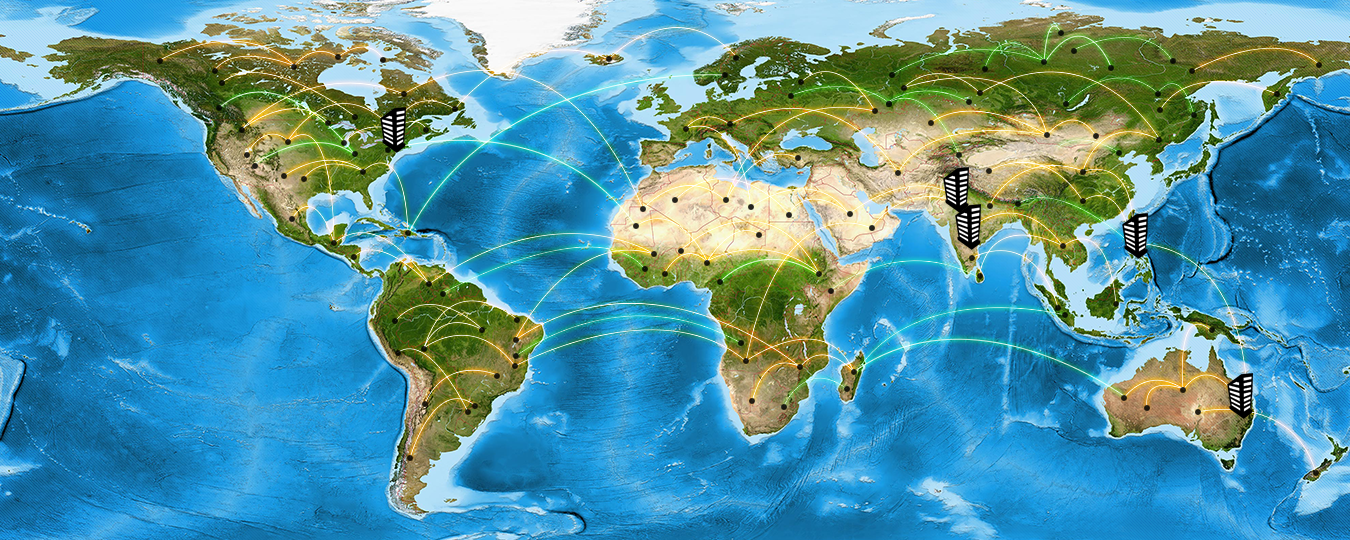
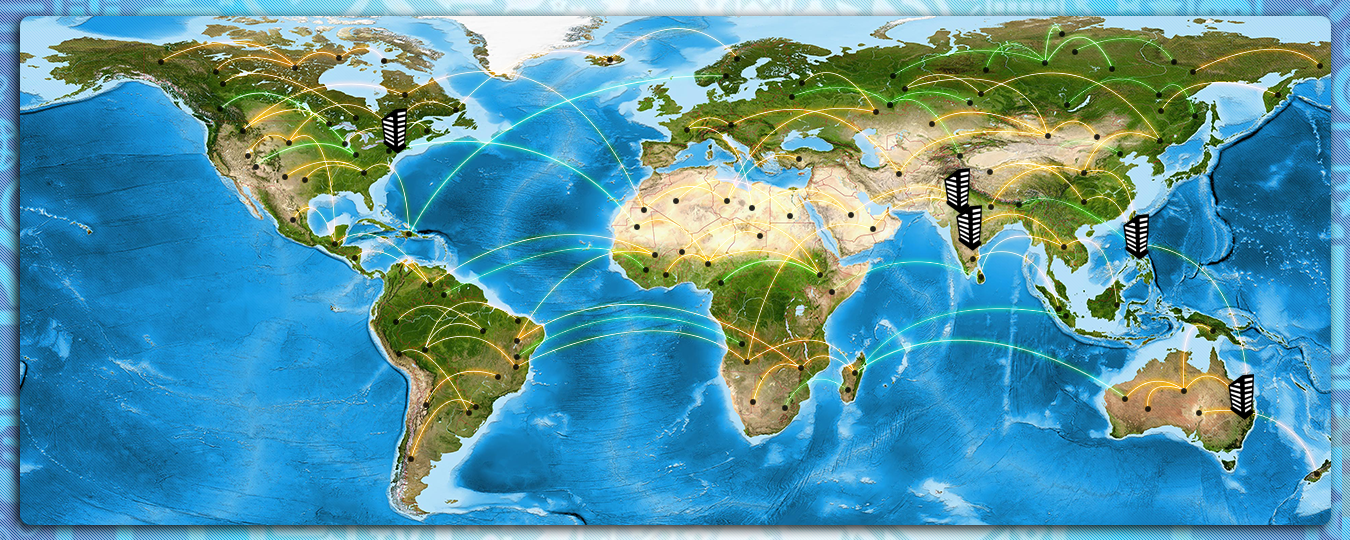
Modified homepage

diff --git a/include/assets/css/style.css b/include/assets/css/style.css
@@ -642,7 +642,7 @@ a:focus {
   margin-right: 15px !important; }
 
 .m-r-25 {
-    margin-right: 15px !important; }
+    margin-right: 25px !important; }
 
 .m-l-5 {
   margin-left: 5px !important; }
@@ -5785,3 +5785,14 @@ ul.sitemap-icon ul li a {
 
   .bg-darkgrey {
     background-color: #262626; }
+
+  @media screen and (max-width: 600px) {
+    .header-slogan {
+      visibility: hidden;
+      clear: both;
+      float: left;
+      margin: 10px auto 5px 20px;
+      width: 28%;
+      display: none;
+    }
+  }

diff --git a/include/navVisitor.php b/include/navVisitor.php
@@ -1,11 +1,16 @@
-<div class="container " >
+<img style="position: absolute; top:0; left:0;" src="../include/assets/images/teamire-header-image.png">
+<div class="container">
   <div class="row">
-    <a href="index.php" class="logo m-t-5  m-l-15 pull-left">
-      <img src="../include/assets/images/teamire-logo.png" style="width: 237px; height: 80px;">
-    </a>
-    <div style="height: 55px; width: 1px; background-color: #9aebff;" class="pull-left m-t-15 m-l-5"></div>
+
+      <a href="index.php" class="logo m-t-5 pull-left">
+        <img src="../include/assets/images/teamire-logo.png" style="width: 237px; height: 80px;">
+      </a>
+
+    <div style="height: 55px; width: 1px; background-color: #9aebff;" class="header-slogan pull-left m-t-15 m-l-5"></div>
     <div class="pull-left" style="width: 265px;height: 40px;">
-      <p class="text-lightblue m-l-15 m-t-20 font-13"><b>It is our business to identify your needs, interests and concerns</b></p>
+      <p class="text-lightblue m-l-15 m-t-20 font-13 header-slogan">
+        <b>It is our business to identify your needs, interests and concerns</b>
+      </p>
     </div>
 
     <div class="form-inline pull-right"  style="padding: 30px;" id="myTopnav">
@@ -15,13 +20,12 @@
         <li> <a class="m-l-3 m-r-3" href="../home/?view=downloads" style="font-size:15px;">Downloads</a></li>
         <li> <a class="m-l-3 m-r-3" href="../home/?view=hiringForm" style="font-size:15px;">Request Staff</a></li>
         <li><a class="m-l-3 m-r-3" href="../home/?view=contactUs" style="font-size:15px;">Contact Us</a></li>
-
       </ul>
     </div>
 
-</div>
   </div>
-
+</div>
+<div class="row">
         <nav style="padding-left: 2%;">
 
         <label for="drop" class="toggle">Menu</label>
@@ -66,8 +70,16 @@
                 </li>
 
             </ul>
-        </nav>
 
+      <div class="pull-right m-t-10" style="padding-right: 4%;">
+        <span class="text-white">+61 452-364-793 | </span>
+        <img src="../include/assets/images/facebook.png">
+        <img src="../include/assets/images/twitter.png">
+        <img src="../include/assets/images/linkedin.png">
+        <img src="../include/assets/images/google.png">
+      </div>
+        </nav>
+</div>
 
 
 <style>

diff --git a/home/home.php b/home/home.php
@@ -18,7 +18,7 @@ function getPositionName($Id){
         <div>
         <div class="main-text hidden-xs">
                 <div class="col-md-12 text-center">
-                    <p class="carousel-title m-t-10 center-page" style="font-size: 40px; width: 100%;">
+                    <p class="carousel-title m-t-10 center-page" style="font-size: 40px; width: 100%; text-shadow: 2px 2px 5px #000000;">
                       Ask Us How To Go Remote And Hire The Most Qualified Supply
                       Chain Team Member For Your Business In Unpredicted Ways
                     </p>
@@ -74,6 +74,8 @@ function getPositionName($Id){
     </div>
   </div>
   <div>
+<div style="position: relative;">
+  <img style="position: absolute; top:0; right:0;" src="../include/assets/images/homepage-bg-1.png">
 <div class="container">
 
 <div class="container-fluid m-t-30 m-b-30">
@@ -174,9 +176,13 @@ function getPositionName($Id){
   <div class="col-lg-1"></div>
 </div>
 
-                    </div> <!-- container -->
-<hr>
+</div> <!-- container -->
+</div>
     <!-- Basic Form Wizard -->
+<div style="position: relative;">
+  <hr>
+  <img style="position: absolute; top:0; left:0;" src="../include/assets/images/homepage-bg-2.png">
+  <br>
     <div class="container-80 center-page">
 
 
@@ -346,8 +352,11 @@ function getPositionName($Id){
 
                       </div>
                         <!-- End row -->
-<hr>
+</div>
   <!-- Start Location Panels-->
+  <div style="position: relative;">
+    <hr>
+    <img style="position: absolute; top:0; right:0;" src="../include/assets/images/homepage-bg-3.png">
       <div class="container center-page">
         <h2 class="text-center">Business Partners</h2>
         <div class="center-page" style="height: 2px; width: 20%; background-color: #3a3a3a;"></div>
@@ -404,6 +413,8 @@ function getPositionName($Id){
         <!-- end row -->
   <!-- End Location Panels-->
   </div>
+  <br>
+</div>
 </div>
 <script>
 var x = document.getElementById("myBtn1");
